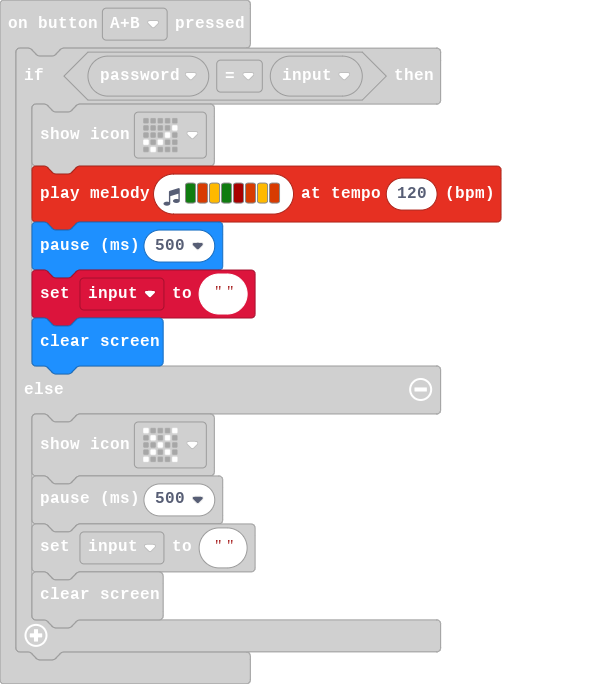
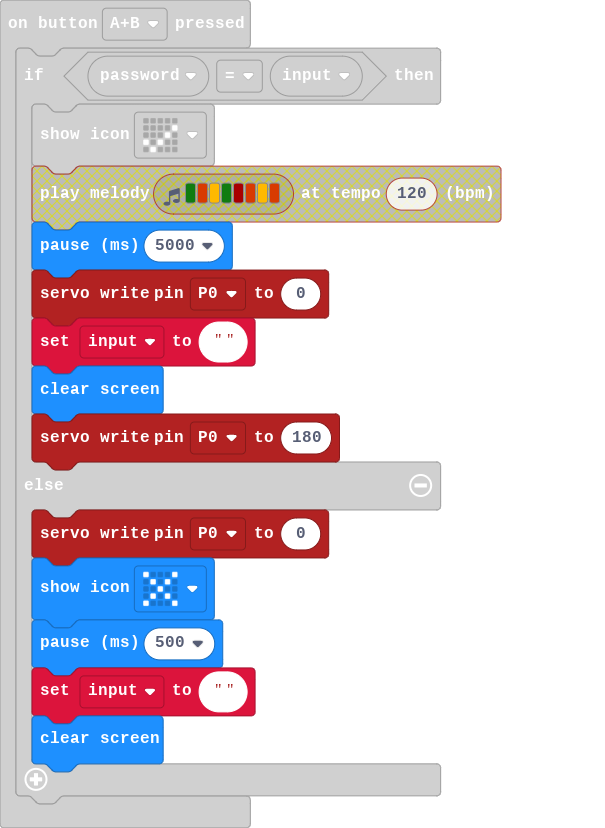
Update main.blocks, main.ts

diff --git a/main.ts b/main.ts
@@ -4,11 +4,13 @@ input.onButtonPressed(Button.A, function () {
 input.onButtonPressed(Button.AB, function () {
     if (password == input2) {
         basic.showIcon(IconNames.Yes)
-        music.playMelody("G B A G C5 B A B ", 120)
-        basic.pause(500)
+        pins.servoWritePin(AnalogPin.P0, 180)
+        basic.pause(5000)
+        pins.servoWritePin(AnalogPin.P0, 0)
         input2 = ""
         basic.clearScreen()
     } else {
+        pins.servoWritePin(AnalogPin.P0, 0)
         basic.showIcon(IconNames.No)
         basic.pause(500)
         input2 = ""
